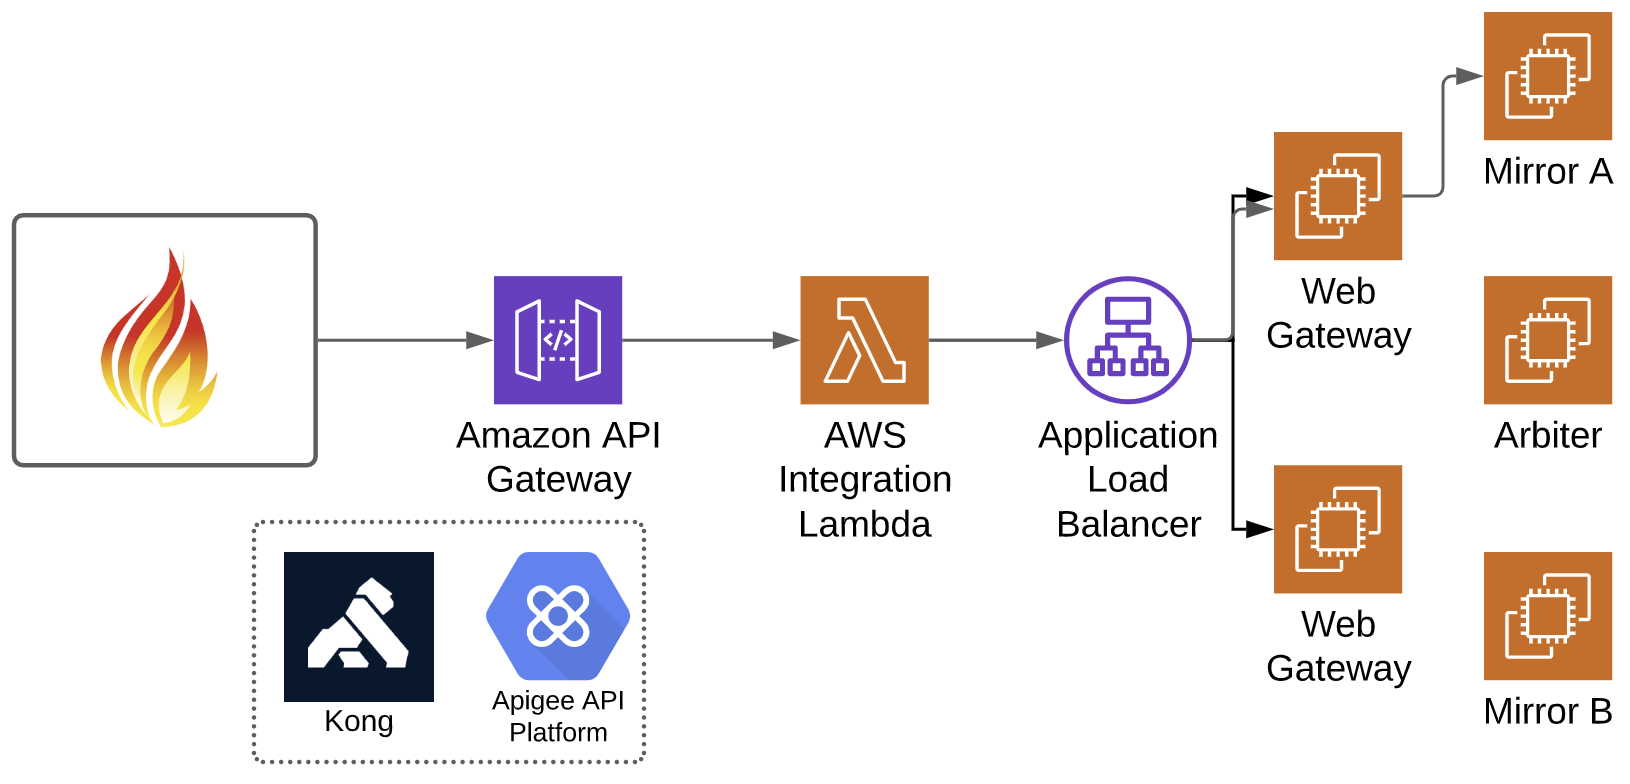
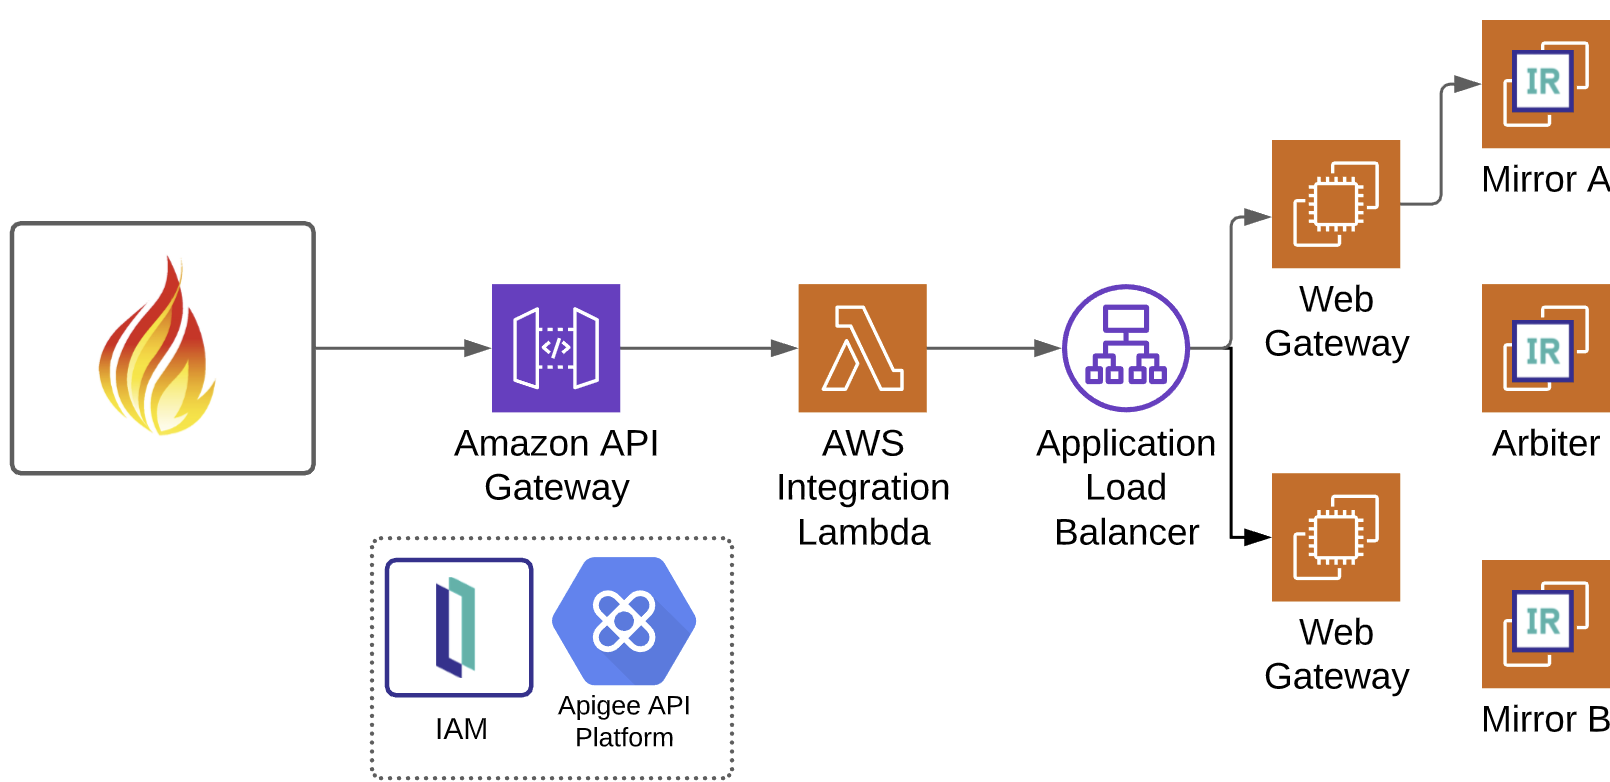
name change

diff --git a/episodes/fhirmarshall_hello_newman/README.md b/episodes/fhirmarshall_hello_newman/README.md
@@ -25,18 +25,18 @@
 <br />
 <p align="center">
   <a href="https://github.com/github_username/repo_name">
-    <img src="https://github.com/sween/fhirmarshall/raw/main/episodes/fhirmarshall_hello_newman/assets/Newmanfire.gif" alt="Logo">
+    <img src="https://github.com/sween/fhirmarshall/raw/main/episodes/fhirmarshall_hello_newman/assets/hello_newman.png" alt="Logo">
   </a>
 
   <h3 align="center">Hello Newman.</h3>
 
   <p align="center">
-    Benchmarking FHIR® Resources with Newman
+    Stokin FHIR® Resources with Newman
     <br />
     <a href="https://learning.postman.com/docs/running-collections/using-newman-cli/command-line-integration-with-newman/"><strong>Newman Docs »</strong></a>
     <br />
     <br />
-    <a href="https://github.com/github_username/repo_name">View Stream</a>
+    <a href="https://youtu.be/-Am6Jx6m5oI">View Stream</a>
     ·
   </p>
 </p>
@@ -184,8 +184,8 @@ Distributed under the MIT License. See `LICENSE` for more information.
 ## The Real Ron Sweeney
 
 * [Portfolio](https://www.ronsween.com)
-* [LinkedIn]()
-* [Github]()
+* [LinkedIn](https://linkedin.com/in/ronsweeney)
+* [Github](https://www.github.com/sween)
 * [GamersOutreach](https://www.ronsween.com/gamers.html)  
 
 

diff --git a/README.md b/README.md
@@ -80,17 +80,12 @@ Portfolio: [Ron Sweeney](https://www.ronsween.com)
 Project Link: [https://github.com/sween/fhirmarshall](https://github.com/sween/fhirmarshall)
 
 
-
 <!-- ACKNOWLEDGEMENTS -->
 ## Acknowledgements
 
-* []()
-* []()
-* []()
-
-
-
-
+* [FHIR®](https://www.hl7.org/fhir/)
+* [InterSystems IRIS](https://www.intersystems.com/products/intersystems-iris-for-health/)
+* [Amazon Web Services](http://aws.amazon.com/)
 
 <!-- MARKDOWN LINKS & IMAGES -->
 <!-- https://www.markdownguide.org/basic-syntax/#reference-style-links -->
